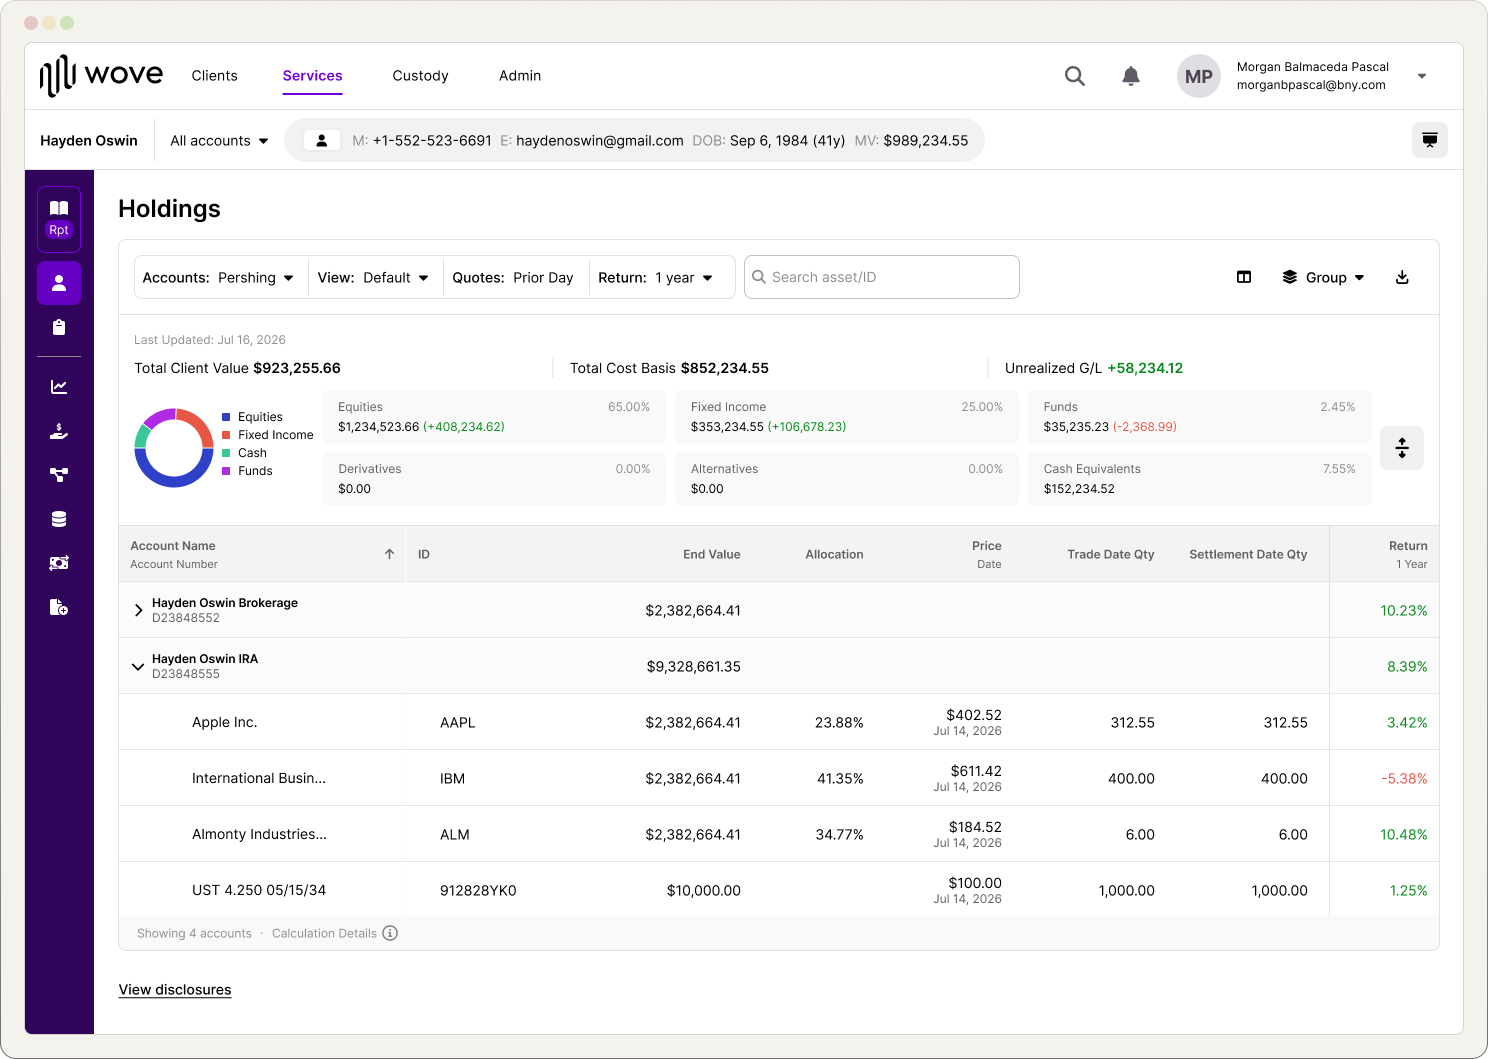
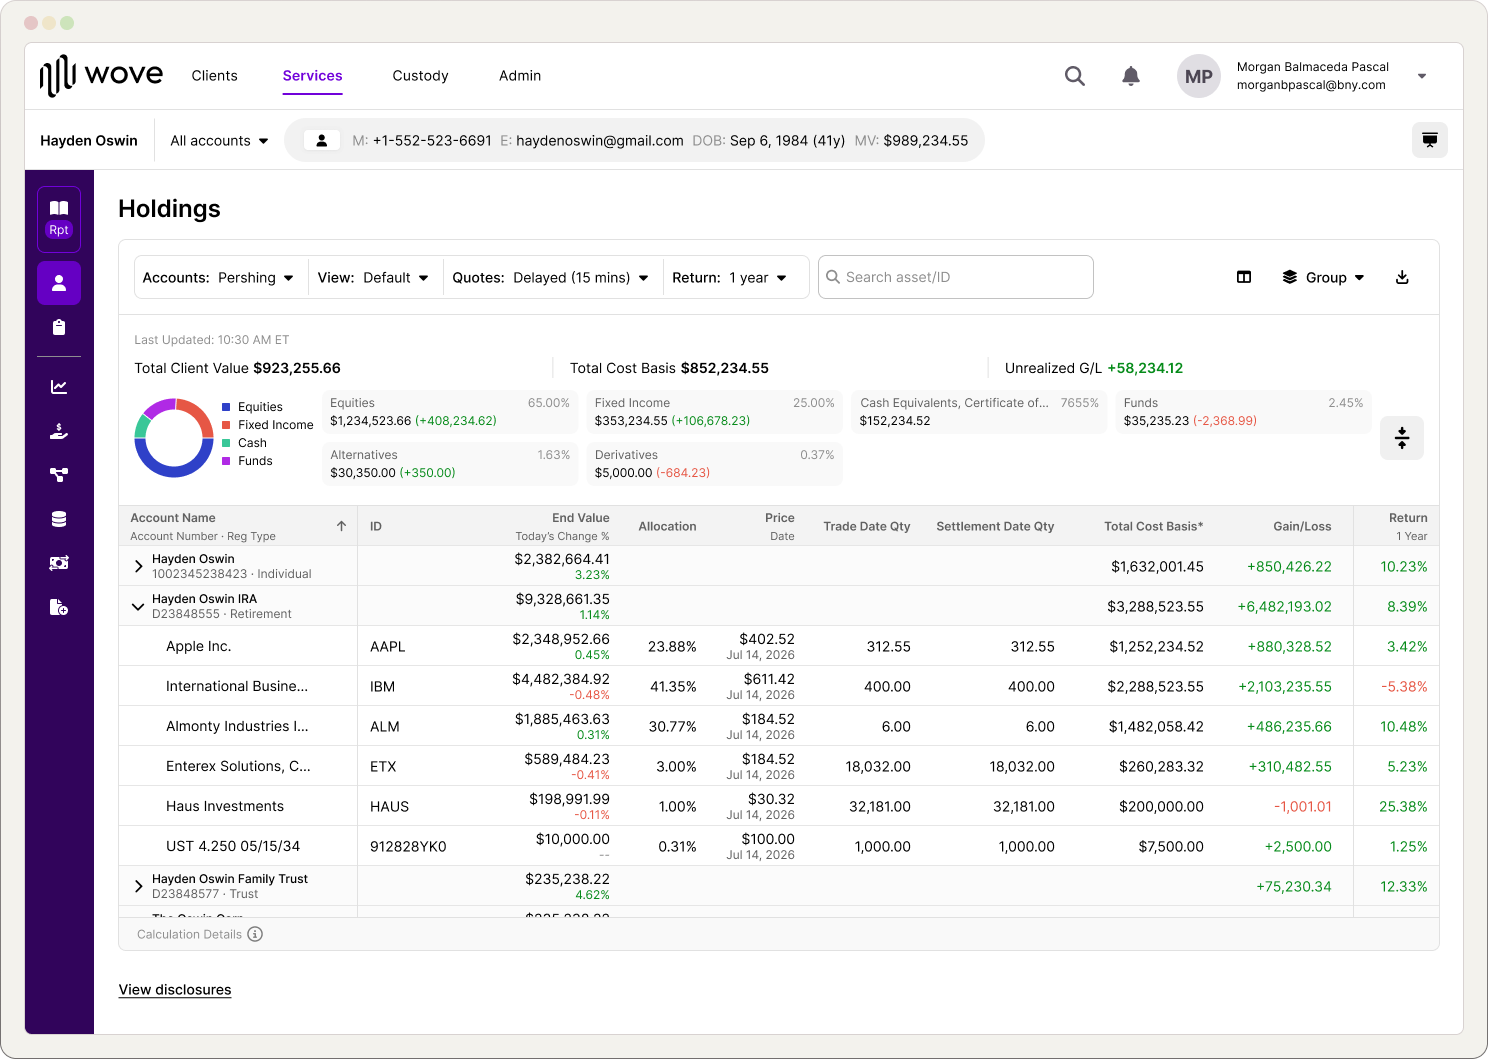
Update portfolio pages

diff --git a/clientholdings.html b/clientholdings.html
@@ -693,6 +693,10 @@
           <h2 class="cs-section-heading">Impact</h2>
           <div class="impact-cards">
             <div class="impact-card">
+              <span class="impact-card-label">900 users every 30 days, and growing.</span>
+              <p class="impact-card-body">Because we know what clients rely on most, we don't just show the data, we show the calculations they'd otherwise have to build themselves.</p>
+            </div>
+            <div class="impact-card">
               <span class="impact-card-label">Consolidated table with all accounts visible</span>
               <p class="impact-card-body">Saving users time, advisors no longer need to download multiple account files and reorganize the data to how they need it.</p>
             </div>
@@ -721,11 +725,11 @@
             <h2 class="cs-section-heading">Hierarchy</h2>
             <p class="cs-body">One new feature is the ability to track external (aka Held Away) accounts within the platform, giving advisors a more holistic view of their clients.</p>
             <div class="cs-subsection">
-              <span class="cs-subsection-label">Filters</span>
+              <span class="tag" style="margin-bottom: 8px;">Filters</span>
               <p class="cs-body">To let advisors pull the specific information they need, we kept the filters at the top. These filters affect all the content and data displays below. Users can also group their data by Client Account or by Asset, giving them the flexibility to focus on either how assets are affecting an account, or how many accounts a given asset is affecting.</p>
             </div>
             <div class="cs-subsection">
-              <span class="cs-subsection-label">Various Data Sources</span>
+              <span class="tag" style="margin-bottom: 8px;">Various Data Sources</span>
               <p class="cs-body">External accounts report data differently than internal accounts. Internal accounts receive real-time data, while external accounts send over a mix of update frequencies. To ensure we're using the most trustworthy data, external accounts display Prior Day data while internal accounts display real-time data. It was also crucial we didn't mix the two sources, since analyzing them together risked improper calculations.</p>
             </div>
           </div>
@@ -780,28 +784,66 @@
     document.addEventListener('click', (e) => { if (mobileMenuEl.classList.contains('is-open') && !mobileMenuEl.contains(e.target) && !hamburgerBtn.contains(e.target)) closeMenu(); });
     mobileMenuEl.querySelectorAll('.mobile-menu-link').forEach(link => link.addEventListener('click', closeMenu));
   </script>
-
-    // Scroll-reveal
+  <script>
+    // Scroll-reveal: dissolve in content as it enters the viewport
     (function () {
-      const selectors = ['.cs-section-heading', '.impact-card', '.solved-card', '.cs-body', '.cs-image-block', '.cs-subsection-label', '.footer-inner'];
-      const targets = document.querySelectorAll(selectors.join(', '));
-      // Stagger impact cards
+      const selectors = [
+        '.cs-image-wrap',
+        '.cs-section-heading',
+        '.cs-body',
+        '.cs-subsection',
+        '.impact-card',
+        '.solved-card',
+        '.footer-inner',
+        'iframe'
+      ];
+      const targets = Array.from(document.querySelectorAll(selectors.join(', ')));
+
+      // Stagger impact cards within each group
       document.querySelectorAll('.impact-cards').forEach(group => {
         group.querySelectorAll('.impact-card').forEach((card, i) => {
-          card.style.transitionDelay = (i * 0.1) + 's';
+          card.dataset.staggerIndex = i;
         });
       });
+
+      // Add reveal class to all targets
       targets.forEach(el => el.classList.add('reveal'));
+
+      // Separate above-fold (already visible) from below-fold
+      const vpHeight = window.innerHeight;
+      const aboveFold = [];
+      const belowFold = [];
+      targets.forEach(el => {
+        if (el.getBoundingClientRect().top < vpHeight) {
+          aboveFold.push(el);
+        } else {
+          belowFold.push(el);
+        }
+      });
+
+      // Above-fold: stagger in after a brief paint delay
+      aboveFold.forEach((el, i) => {
+        setTimeout(() => {
+          el.style.transitionDelay = '0s';
+          el.classList.add('is-visible');
+        }, 80 + i * 120);
+      });
+
+      // Below-fold: reveal on scroll
       const observer = new IntersectionObserver((entries) => {
         entries.forEach(entry => {
           if (entry.isIntersecting) {
-            entry.target.classList.add('is-visible');
-            observer.unobserve(entry.target);
+            const el = entry.target;
+            const stagger = el.dataset.staggerIndex ? parseFloat(el.dataset.staggerIndex) * 0.1 : 0;
+            el.style.transitionDelay = stagger + 's';
+            el.classList.add('is-visible');
+            observer.unobserve(el);
           }
         });
       }, { threshold: 0.08, rootMargin: '0px 0px -40px 0px' });
-      targets.forEach(el => observer.observe(el));
-    })();
 
+      belowFold.forEach(el => observer.observe(el));
+    })();
+  </script>
 </body>
 </html>

diff --git a/restrictions.html b/restrictions.html
@@ -561,28 +561,66 @@ if (currentY <= 0) { mainNav.classList.remove('nav--hidden'); }
     document.addEventListener('click', (e) => { if (mobileMenuEl.classList.contains('is-open') && !mobileMenuEl.contains(e.target) && !hamburgerBtn.contains(e.target)) closeMenu(); });
     mobileMenuEl.querySelectorAll('.mobile-menu-link').forEach(link => link.addEventListener('click', closeMenu));
   </script>
-
-    // Scroll-reveal
+  <script>
+    // Scroll-reveal: dissolve in content as it enters the viewport
     (function () {
-      const selectors = ['.cs-section-heading', '.impact-card', '.solved-card', '.cs-body', '.cs-image-block', '.cs-subsection-label', '.footer-inner'];
-      const targets = document.querySelectorAll(selectors.join(', '));
-      // Stagger impact cards
+      const selectors = [
+        '.cs-image-wrap',
+        '.cs-section-heading',
+        '.cs-body',
+        '.cs-subsection',
+        '.impact-card',
+        '.solved-card',
+        '.footer-inner',
+        'iframe'
+      ];
+      const targets = Array.from(document.querySelectorAll(selectors.join(', ')));
+
+      // Stagger impact cards within each group
       document.querySelectorAll('.impact-cards').forEach(group => {
         group.querySelectorAll('.impact-card').forEach((card, i) => {
-          card.style.transitionDelay = (i * 0.1) + 's';
+          card.dataset.staggerIndex = i;
         });
       });
+
+      // Add reveal class to all targets
       targets.forEach(el => el.classList.add('reveal'));
+
+      // Separate above-fold (already visible) from below-fold
+      const vpHeight = window.innerHeight;
+      const aboveFold = [];
+      const belowFold = [];
+      targets.forEach(el => {
+        if (el.getBoundingClientRect().top < vpHeight) {
+          aboveFold.push(el);
+        } else {
+          belowFold.push(el);
+        }
+      });
+
+      // Above-fold: stagger in after a brief paint delay
+      aboveFold.forEach((el, i) => {
+        setTimeout(() => {
+          el.style.transitionDelay = '0s';
+          el.classList.add('is-visible');
+        }, 80 + i * 120);
+      });
+
+      // Below-fold: reveal on scroll
       const observer = new IntersectionObserver((entries) => {
         entries.forEach(entry => {
           if (entry.isIntersecting) {
-            entry.target.classList.add('is-visible');
-            observer.unobserve(entry.target);
+            const el = entry.target;
+            const stagger = el.dataset.staggerIndex ? parseFloat(el.dataset.staggerIndex) * 0.1 : 0;
+            el.style.transitionDelay = stagger + 's';
+            el.classList.add('is-visible');
+            observer.unobserve(el);
           }
         });
       }, { threshold: 0.08, rootMargin: '0px 0px -40px 0px' });
-      targets.forEach(el => observer.observe(el));
-    })();
 
+      belowFold.forEach(el => observer.observe(el));
+    })();
+  </script>
 </body>
 </html>

diff --git a/selfservicemetrics.html b/selfservicemetrics.html
@@ -551,28 +551,66 @@ if (currentY <= 0) { mainNav.classList.remove('nav--hidden'); }
     document.addEventListener('click', (e) => { if (mobileMenuEl.classList.contains('is-open') && !mobileMenuEl.contains(e.target) && !hamburgerBtn.contains(e.target)) closeMenu(); });
     mobileMenuEl.querySelectorAll('.mobile-menu-link').forEach(link => link.addEventListener('click', closeMenu));
   </script>
-
-    // Scroll-reveal
+  <script>
+    // Scroll-reveal: dissolve in content as it enters the viewport
     (function () {
-      const selectors = ['.cs-section-heading', '.impact-card', '.solved-card', '.cs-body', '.cs-image-block', '.cs-subsection-label', '.footer-inner'];
-      const targets = document.querySelectorAll(selectors.join(', '));
-      // Stagger impact cards
+      const selectors = [
+        '.cs-image-wrap',
+        '.cs-section-heading',
+        '.cs-body',
+        '.cs-subsection',
+        '.impact-card',
+        '.solved-card',
+        '.footer-inner',
+        'iframe'
+      ];
+      const targets = Array.from(document.querySelectorAll(selectors.join(', ')));
+
+      // Stagger impact cards within each group
       document.querySelectorAll('.impact-cards').forEach(group => {
         group.querySelectorAll('.impact-card').forEach((card, i) => {
-          card.style.transitionDelay = (i * 0.1) + 's';
+          card.dataset.staggerIndex = i;
         });
       });
+
+      // Add reveal class to all targets
       targets.forEach(el => el.classList.add('reveal'));
+
+      // Separate above-fold (already visible) from below-fold
+      const vpHeight = window.innerHeight;
+      const aboveFold = [];
+      const belowFold = [];
+      targets.forEach(el => {
+        if (el.getBoundingClientRect().top < vpHeight) {
+          aboveFold.push(el);
+        } else {
+          belowFold.push(el);
+        }
+      });
+
+      // Above-fold: stagger in after a brief paint delay
+      aboveFold.forEach((el, i) => {
+        setTimeout(() => {
+          el.style.transitionDelay = '0s';
+          el.classList.add('is-visible');
+        }, 80 + i * 120);
+      });
+
+      // Below-fold: reveal on scroll
       const observer = new IntersectionObserver((entries) => {
         entries.forEach(entry => {
           if (entry.isIntersecting) {
-            entry.target.classList.add('is-visible');
-            observer.unobserve(entry.target);
+            const el = entry.target;
+            const stagger = el.dataset.staggerIndex ? parseFloat(el.dataset.staggerIndex) * 0.1 : 0;
+            el.style.transitionDelay = stagger + 's';
+            el.classList.add('is-visible');
+            observer.unobserve(el);
           }
         });
       }, { threshold: 0.08, rootMargin: '0px 0px -40px 0px' });
-      targets.forEach(el => observer.observe(el));
-    })();
 
+      belowFold.forEach(el => observer.observe(el));
+    })();
+  </script>
 </body>
 </html>

diff --git a/index.html b/index.html
@@ -323,7 +323,7 @@
     .hero-subtitle .divider { color: #c7c7c7; }
 
     @media (max-width: 1024px) {
-      .hero-title { font-size: 48px; }
+      .hero-title { font-size: 68px; }
       .hero-content { max-width: 100%; padding-top: 88px; }
       .work-section { padding-top: 88px; padding-bottom: 88px; }
       .experience-section { padding-top: 0; padding-bottom: 88px; }
